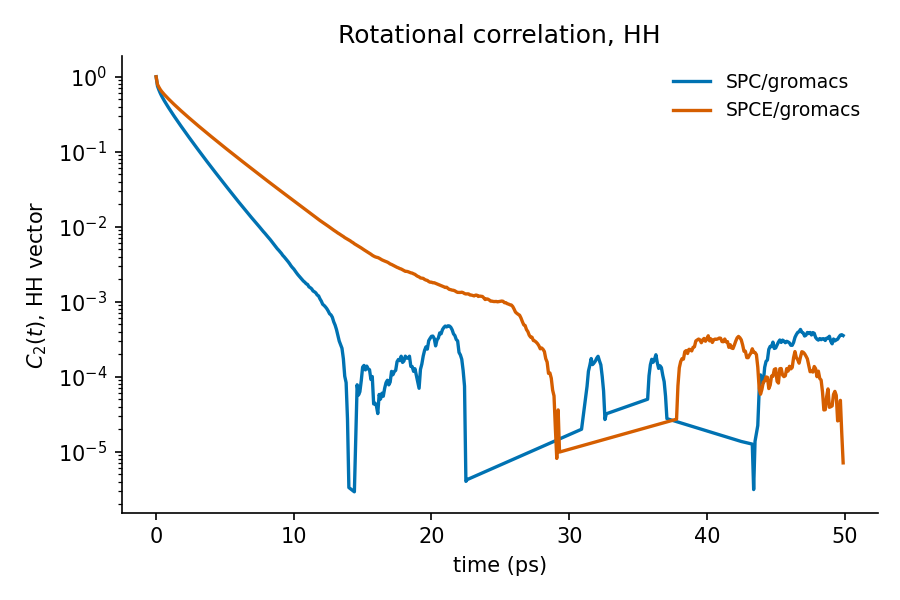
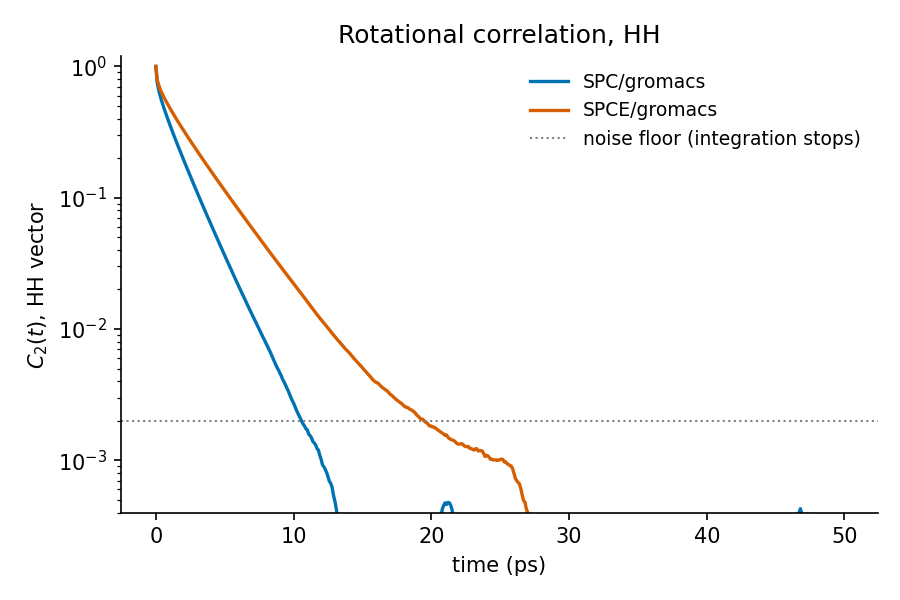
Trim the C2 axis to the resolved decay

diff --git a/src/water_benchmarking/analysis/plots.py b/src/water_benchmarking/analysis/plots.py
@@ -100,6 +100,17 @@ def rotational_correlation(runs: Mapping[str, object], output: Path,
     axes.axhline(NOISE_FLOOR, color="grey", linestyle=":", linewidth=1,
                  label="noise floor (integration stops)")
     axes.set_ylim(NOISE_FLOOR / 5, 1.2)
+    # Show the resolved decay and a little beyond; past the last floor crossing
+    # there is nothing but empty axis.
+    last = 0.0
+    for summary in runs.values():
+        c2 = summary.c2.get(vector)
+        if c2 is not None:
+            resolved = np.nonzero(c2 > NOISE_FLOOR)[0]
+            if len(resolved):
+                last = max(last, float(summary.rotation_lags[resolved[-1]]))
+    if last:
+        axes.set_xlim(0, last * 1.3)
     axes.set_xlabel("time (ps)")
     axes.set_ylabel(rf"$C_2(t)$, {vector} vector")
     axes.set_title(f"Rotational correlation, {vector}")

diff --git a/results/summary.md b/results/summary.md
@@ -9,7 +9,7 @@ Single-range cutoff 1.8 nm, reaction field eps_rf = 61, timestep 1 fs.
 |------------------------------------------|---------------|-----------------|------------------|------------|-----------------------------------------------------------|
 | Density                                  | kg m^-3       | 976.0 +/- 0.078 | 997.4 +/- 0.069  | 997.0      | Kell 1975, J. Chem. Eng. Data 20:97                       |
 | dH_vap                                   | kJ mol^-1     | 44.19 +/- 0.001 | 49.27 +/- 0.0014 | 43.99      | Wagner & Pruss 2002, IAPWS-95                             |
-| Self-diffusion D                         | 1e-9 m^2 s^-1 | 4.32 +/- 0.005  | 2.73 +/- 0.0028  | 2.30       | Holz et al. 2000, PCCP 2:4740                             |
+| Self-diffusion D                         | 1e-9 m^2 s^-1 | 4.30 +/- 0.005  | 2.75 +/- 0.0028  | 2.30       | Holz et al. 2000, PCCP 2:4740                             |
 | Rot. corr. time tau2(HH)                 | ps            | 1.17            | 1.99             | 2.00       | NMR relaxation; Ludwig 2001, Angew. Chem. 40:1808         |
 | Rot. corr. time tau1(mu)                 | ps            | 2.82            | 4.65             | 8.30       | Debye tau_D (collective); Ronne et al. 1997, JCP 107:5319 |
 | Dielectric constant (eps = 1 + y)        | -             | 66.3 +/- 1.7    | 69.4 +/- 1.5     | 78.4       | Fernandez et al. 1997, J. Phys. Chem. Ref. Data 26:1125   |
@@ -27,8 +27,8 @@ not directly comparable to the single-molecule correlation time simulated.
 |-----------------------------------|-------------|--------------|
 | Density                           | -2.1%       | +0.0%        |
 | dH_vap                            | +0.5%  [!]  | +12.0%       |
-| Self-diffusion D                  | +87.8%      | +18.8%       |
-| Rot. corr. time tau2(HH)          | -41.4%      | -0.4%        |
+| Self-diffusion D                  | +87.2%      | +19.4%       |
+| Rot. corr. time tau2(HH)          | -41.5%      | -0.6%        |
 | Dielectric constant (eps = 1 + y) | -15.5%      | -11.5%       |
 
 - SPC/gromacs, hov: published SPC dH_vap (41-44) is mostly at ~0.9 nm cutoffs; the 1.8 nm cutoff here recovers more attractive energy, so a value at the top of the range is the protocol, not an error
